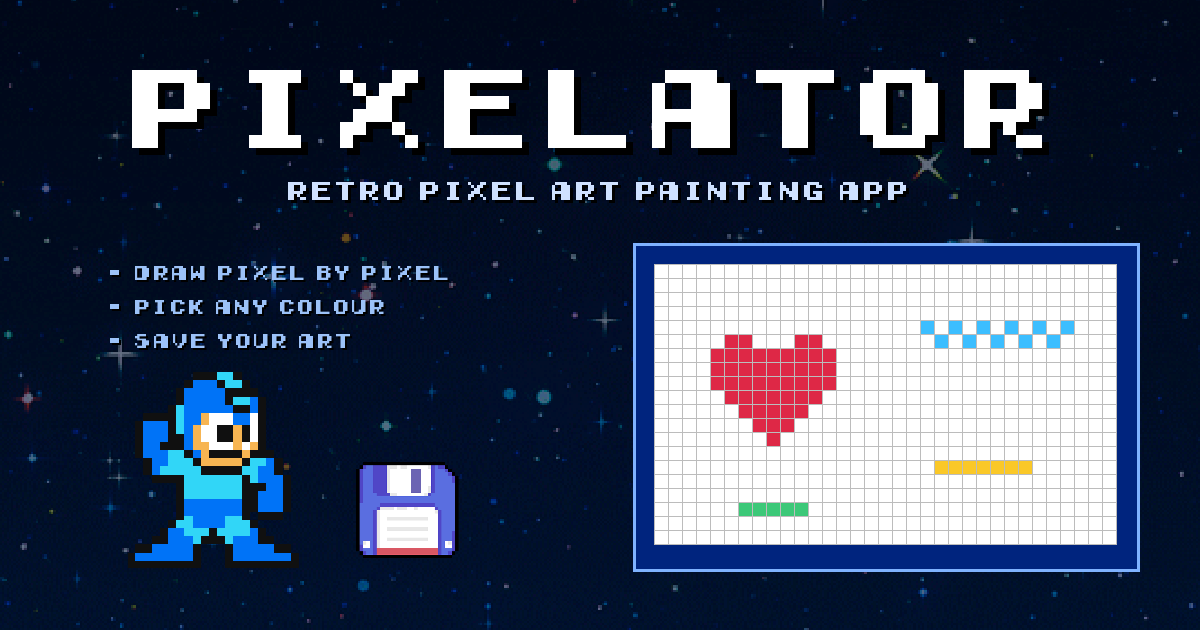
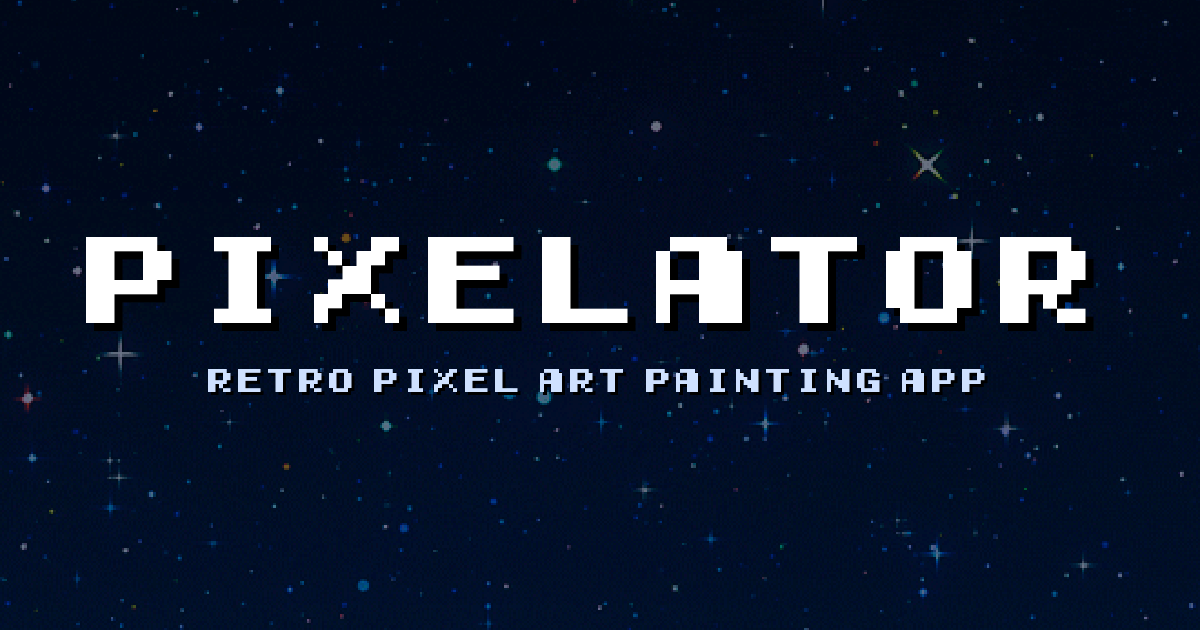
Simplify the OG image to just the wordmark on the starfield
Drop the MegaMan sprite, floppy, canvas mockup and feature bullets —
the preview reads better with only the space backdrop, "Pixelator" in
the Early GameBoy typeface, and the tagline beneath it.

Bump the image URL to ?v=2 so WhatsApp and Facebook re-fetch instead of
serving the previously scraped version, and correct og:image:alt to
describe the new artwork.

diff --git a/index.html b/index.html
@@ -14,16 +14,16 @@
     <meta property="og:url" content="https://ibra-exe.github.io/pixelator/">
     <meta property="og:title" content="Pixelator — Retro Pixel Art Painting App">
     <meta property="og:description" content="Draw pixel by pixel, pick any colour, and save your art. With a music player, a dancing MegaMan and a hidden easter egg.">
-    <meta property="og:image" content="https://ibra-exe.github.io/pixelator/img/og-image.png">
-    <meta property="og:image:secure_url" content="https://ibra-exe.github.io/pixelator/img/og-image.png">
+    <meta property="og:image" content="https://ibra-exe.github.io/pixelator/img/og-image.png?v=2">
+    <meta property="og:image:secure_url" content="https://ibra-exe.github.io/pixelator/img/og-image.png?v=2">
     <meta property="og:image:type" content="image/png">
     <meta property="og:image:width" content="1200">
     <meta property="og:image:height" content="630">
-    <meta property="og:image:alt" content="A Pixelator canvas with a pixel heart drawn on it, beside MegaMan and a floppy disk">
+    <meta property="og:image:alt" content="The Pixelator wordmark in a retro pixel typeface over a starfield">
     <meta name="twitter:card" content="summary_large_image">
     <meta name="twitter:title" content="Pixelator — Retro Pixel Art Painting App">
     <meta name="twitter:description" content="Draw pixel by pixel, pick any colour, and save your art. With a music player, a dancing MegaMan and a hidden easter egg.">
-    <meta name="twitter:image" content="https://ibra-exe.github.io/pixelator/img/og-image.png">
+    <meta name="twitter:image" content="https://ibra-exe.github.io/pixelator/img/og-image.png?v=2">
     <link rel="stylesheet" href="./style.css">
     <link rel="icon" href="./img/star.gif" type="image/gif">
 
